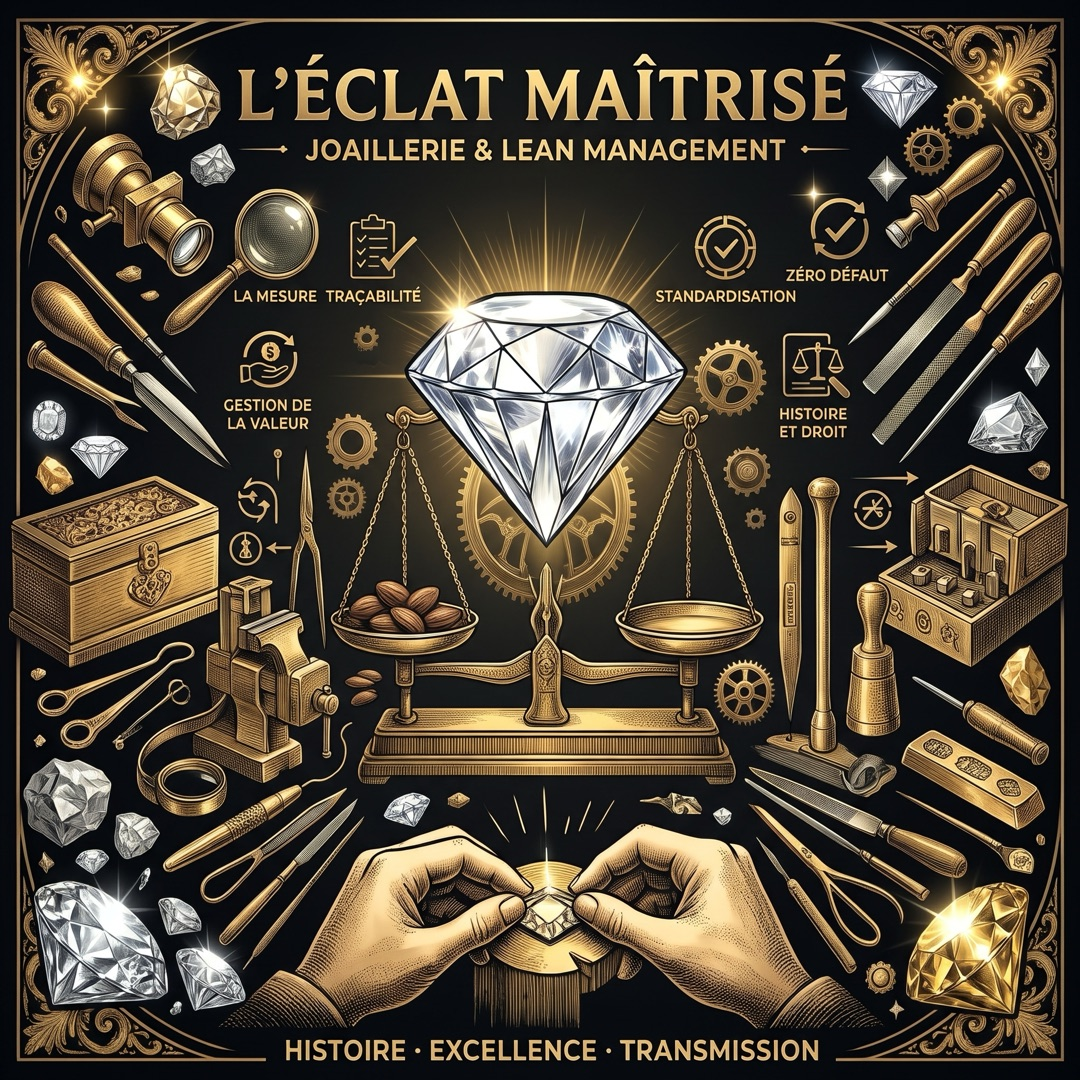
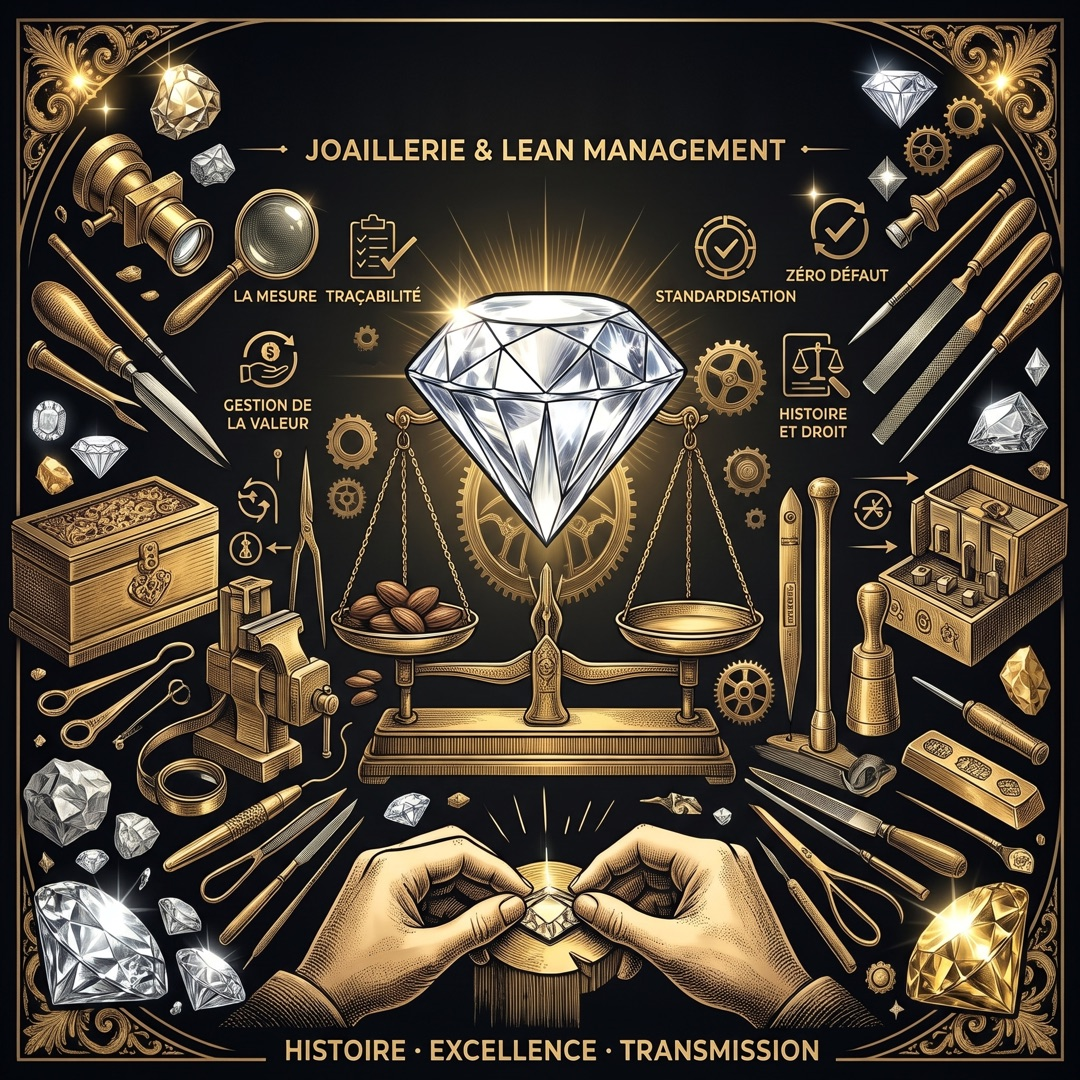
style: retire « L'Éclat Maîtrisé » et « Épisode N » des illustrations 1 à 4
- Retouches regroupées dans design/retouches/retouch.html (+ render.sh)
- Originaux Gemini 2048 px conservés (ep-N-gemini.jpg)
- L'épisode 2 garde ses corrections (FLUX TIRÉ, SUIVI VSM)

Changed region(s): [[0.4889, 0.0306, 0.7944, 0.1222], [0.2139, 0.0306, 0.4583, 0.1222]]

diff --git a/design/retouches/retouch.html b/design/retouches/retouch.html
@@ -1,0 +1,130 @@
+<!doctype html>
+<html><head><meta charset="utf-8">
+<link href="https://fonts.googleapis.com/css2?family=Montserrat:wght@600;700&display=swap" rel="stylesheet">
+<style>html,body{margin:0;background:#000}canvas{display:block}</style>
+</head><body>
+<canvas id="c" width="2048" height="2048"></canvas>
+<script>
+// Retouches des illustrations Gemini (originaux 2048 × 2048 : ep-N-gemini.jpg).
+// Usage : retouch.html?ep=N  → rendu à capturer avec Chrome headless.
+//
+// Toutes les images : suppression du titre « L'ÉCLAT MAÎTRISÉ ».
+// Épisodes 2 à 4 : suppression de la ligne « ÉPISODE N ».
+// Épisode 2 : corrections de texte (doublon Jidoka, faute sur le carnet).
+
+const EP = Number(new URLSearchParams(location.search).get('ep'));
+
+// Zones à effacer [x0, y0, x1, y1] (coordonnées de l'original 2048 px)
+const ERASE = {
+  1: [[432, 88, 1622, 250]],
+  2: [[432, 88, 1622, 250], [850, 332, 1200, 421, 'top']],
+  3: [[400, 70, 1650, 250], [560, 332, 1510, 421, 'top']],
+  4: [[400, 70, 1650, 250], [560, 332, 1510, 421, 'top']],
+};
+
+const lum = (r, g, b) => 0.2126 * r + 0.7152 * g + 0.0722 * b;
+
+// Reconstitue le fond d'une zone : pour chaque colonne, interpolation verticale
+// entre la teinte (pixels sombres) juste au-dessus et juste en dessous
+// (mode 'top' : teinte du dessus seulement, quand le dessous touche un texte),
+// léger grain pour imiter la texture, bords fondus dans l'original.
+function erase(ctx, [x0, y0, x1, y1, mode], feather = 14) {
+  const pad = 6, w = x1 - x0, h = y1 - y0;
+  const above = ctx.getImageData(x0, y0 - pad, w, pad).data;
+  const below = ctx.getImageData(x0, y1, w, pad).data;
+  const orig = ctx.getImageData(x0, y0, w, h);
+  const out = ctx.createImageData(w, h);
+
+  const strip = (data, x) => {
+    let r = 0, g = 0, b = 0, n = 0;
+    for (let dx = -16; dx <= 16; dx += 2) {
+      const xx = Math.min(w - 1, Math.max(0, x + dx));
+      for (let y = 0; y < pad; y++) {
+        const i = (y * w + xx) * 4;
+        if (lum(data[i], data[i + 1], data[i + 2]) < 45) { r += data[i]; g += data[i + 1]; b += data[i + 2]; n++; }
+      }
+    }
+    return n ? [r / n, g / n, b / n] : [16, 16, 20];
+  };
+
+  const top = [], bot = [];
+  for (let x = 0; x < w; x++) { top.push(strip(above, x)); bot.push(strip(below, x)); }
+
+  let seed = 1234;
+  const rand = () => ((seed = (seed * 16807) % 2147483647) / 2147483647) - 0.5;
+
+  for (let y = 0; y < h; y++) {
+    const t = mode === 'top' ? 0 : y / (h - 1);
+    for (let x = 0; x < w; x++) {
+      const i = (y * w + x) * 4;
+      const n = rand() * 5;
+      const fill = [0, 1, 2].map(k => top[x][k] * (1 - t) + bot[x][k] * t + n);
+      // fondu sur les bords
+      // en mode 'top', fondu très court en bas (le texte du thème commence juste dessous)
+      const db = mode === 'top' ? (h - 1 - y) * 5 : h - 1 - y;
+      const d = Math.min(x, w - 1 - x, y, db);
+      const a = Math.min(1, d / feather);
+      for (let k = 0; k < 3; k++) out.data[i + k] = fill[k] * a + orig.data[i + k] * (1 - a);
+      out.data[i + 3] = 255;
+    }
+  }
+  ctx.putImageData(out, x0, y0);
+}
+
+// ---------- Corrections propres à l'épisode 2 ----------
+function paperColor(ctx, x, y, w, h, minLum = 170) {
+  const d = ctx.getImageData(x, y, w, h).data; let r = 0, g = 0, b = 0, n = 0;
+  for (let i = 0; i < d.length; i += 4) {
+    if (lum(d[i], d[i + 1], d[i + 2]) >= minLum) { r += d[i]; g += d[i + 1]; b += d[i + 2]; n++; }
+  }
+  return `rgb(${r / n | 0},${g / n | 0},${b / n | 0})`;
+}
+function avgColor(ctx, x, y, w, h) {
+  const d = ctx.getImageData(x, y, w, h).data; let r = 0, g = 0, b = 0, n = d.length / 4;
+  for (let i = 0; i < d.length; i += 4) { r += d[i]; g += d[i + 1]; b += d[i + 2]; }
+  return `rgb(${r / n | 0},${g / n | 0},${b / n | 0})`;
+}
+function patch(ctx, color, x, y, w, h, feather = 10) {
+  ctx.save(); ctx.fillStyle = color;
+  ctx.filter = `blur(${feather}px)`; ctx.fillRect(x, y, w, h);
+  ctx.filter = 'none'; ctx.fillRect(x + feather, y + feather / 2, w - 2 * feather, h - feather);
+  ctx.restore();
+}
+function goldText(ctx, text, cx, cy, size) {
+  ctx.save(); ctx.font = `700 ${size}px Montserrat`; ctx.textAlign = 'center'; ctx.textBaseline = 'middle';
+  const g = ctx.createLinearGradient(0, cy - size / 2, 0, cy + size / 2);
+  g.addColorStop(0, '#f3d79b'); g.addColorStop(0.5, '#d9ac5c'); g.addColorStop(1, '#a8772f');
+  ctx.shadowColor = 'rgba(230,180,90,.35)'; ctx.shadowBlur = 6; ctx.fillStyle = g; ctx.fillText(text, cx, cy);
+  ctx.restore();
+}
+function inkText(ctx, text, cx, cy, size, angle, color) {
+  ctx.save(); ctx.translate(cx, cy); ctx.rotate(angle * Math.PI / 180);
+  ctx.font = `700 ${size}px Montserrat`; ctx.textAlign = 'center'; ctx.textBaseline = 'middle';
+  ctx.fillStyle = color; ctx.fillText(text, 0, 0); ctx.restore();
+}
+function fixEpisode2(ctx) {
+  // « JIDOKA (Qualité à la Source) » en double → « FLUX TIRÉ »
+  patch(ctx, avgColor(ctx, 1000, 1395, 30, 60), 672, 1392, 334, 96, 8);
+  goldText(ctx, 'FLUX TIRÉ', 836, 1438, 44);
+  // « SDIVI SUIVI VSM » → « SUIVI VSM » (bandeau du carnet, en perspective)
+  const paper = paperColor(ctx, 1215, 1560, 230, 70);
+  const quad = [[1208, 1586], [1445, 1526], [1448, 1560], [1208, 1614]];
+  ctx.save(); ctx.fillStyle = paper; ctx.filter = 'blur(3px)';
+  ctx.beginPath(); quad.forEach(([x, y], i) => i ? ctx.lineTo(x, y) : ctx.moveTo(x, y)); ctx.closePath(); ctx.fill();
+  ctx.filter = 'none'; ctx.fill(); ctx.restore();
+  ctx.save(); ctx.strokeStyle = '#1d1712'; ctx.lineWidth = 2.6; ctx.lineCap = 'round';
+  ctx.beginPath(); ctx.moveTo(1355, 1585.8); ctx.lineTo(1471, 1551.5); ctx.stroke(); ctx.restore();
+  inkText(ctx, 'SUIVI VSM', 1326, 1572, 28, -13.5, '#241b13');
+}
+
+(async () => {
+  await document.fonts.load('700 40px Montserrat');
+  const img = new Image(); img.src = `ep-${EP}-gemini.jpg`; await img.decode();
+  const ctx = document.getElementById('c').getContext('2d', { willReadFrequently: true });
+  ctx.drawImage(img, 0, 0);
+  if (EP === 2) fixEpisode2(ctx);
+  (ERASE[EP] || []).forEach(z => erase(ctx, z));
+  document.title = 'done';
+})();
+</script>
+</body></html>
